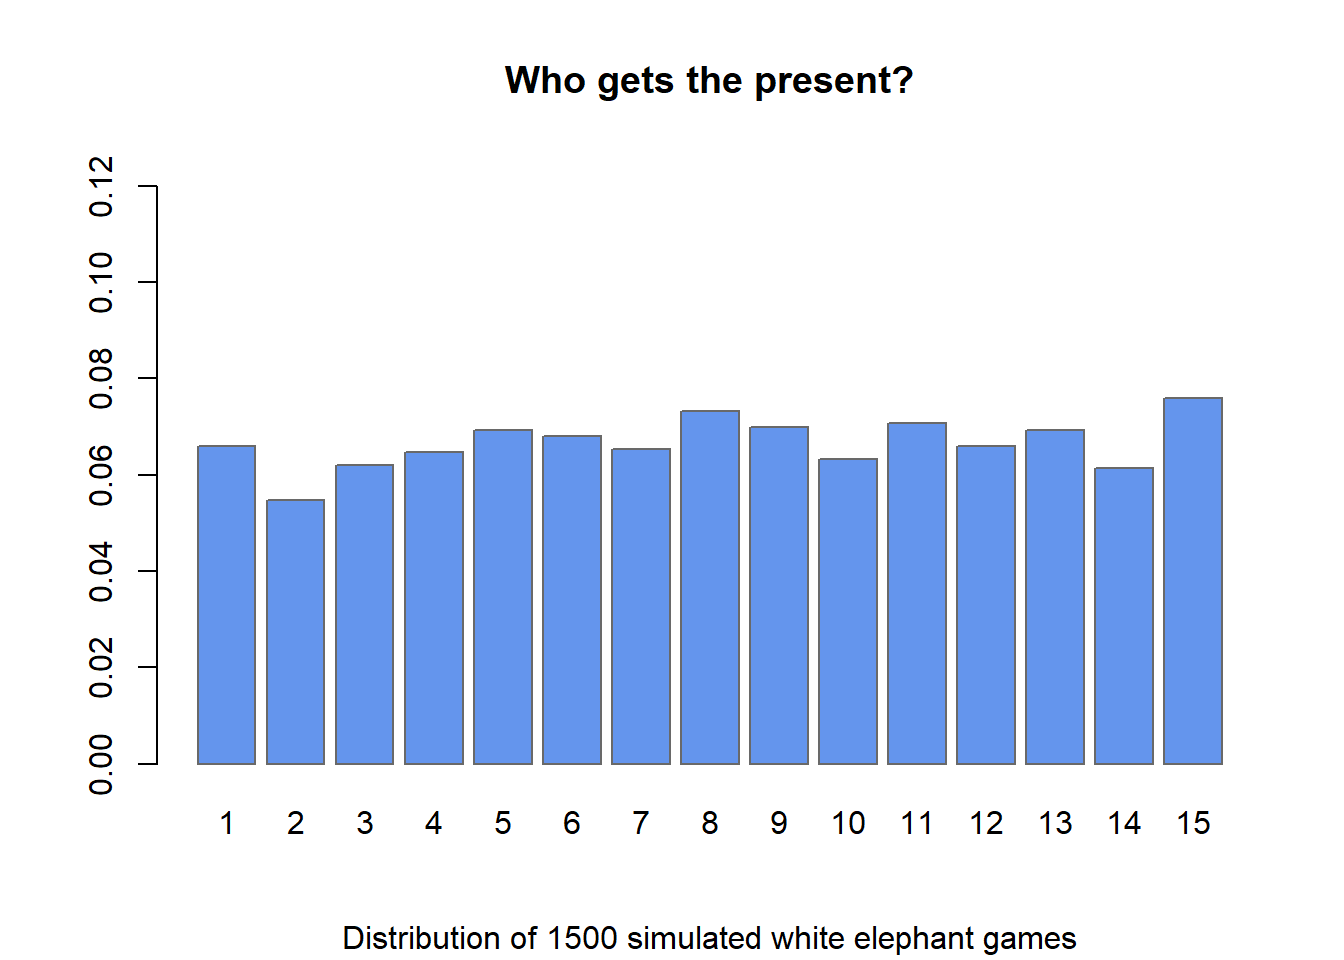
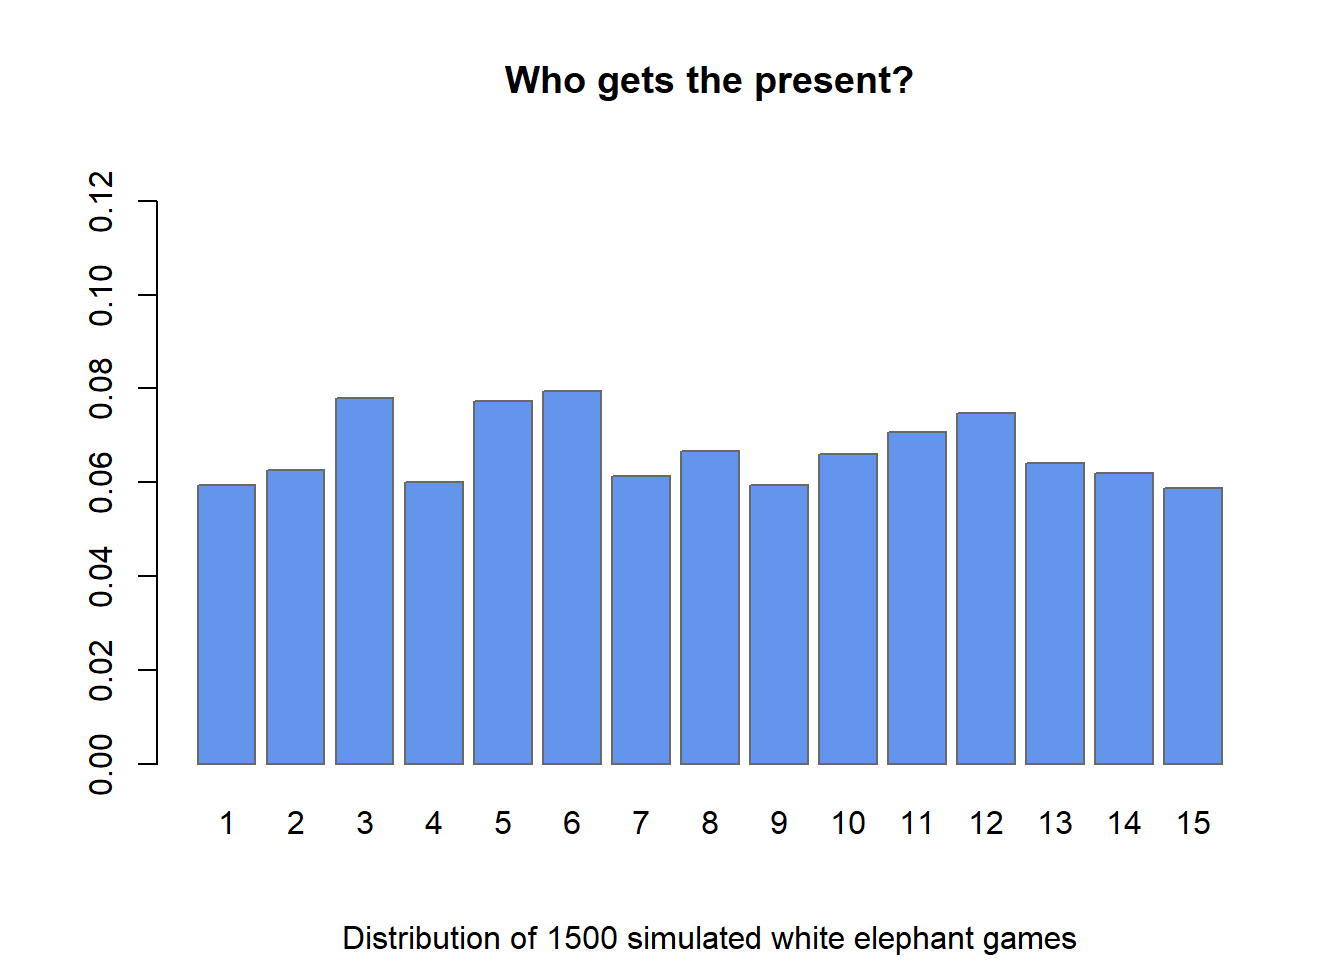
dubose open update

diff --git a/docs/projects/partyGames.html b/docs/projects/partyGames.html
@@ -208,12 +208,12 @@ pre > code.sourceCode > span > a:first-child::before { text-decoration: underlin
 <pre><code>$winner
 winner
   1   2   3   4   5   6   7   8   9  10  11  12  13  14  15 
- 99  82  93  97 104 102  98 110 105  95 106  99 104  92 114 
+ 89  94 117  90 116 119  92 100  89  99 106 112  96  93  88 
 
 $moves
 moves
   -6   -5   -4   -3   -2   -1    1    2    3    4    5    6 
-1855 1845 1826 1918 1873 1924 1888 1913 1853 1866 1816 1923 
+1903 1937 1853 1907 1860 1852 1891 1823 1921 1853 1792 1908 
 
 attr(,"class")
 [1] "elphSum" "list"   </code></pre>
@@ -242,44 +242,44 @@ attr(,"class")
 <span id="cb6-3"><a href="#cb6-3" aria-hidden="true" tabindex="-1"></a>monopolyGame</span></code><button title="Copy to Clipboard" class="code-copy-button"><i class="bi"></i></button></pre></div>
 <div class="cell-output cell-output-stdout">
 <pre><code>[[1]]
- [1] 11 18 18 10 11  9 19 15  8 15 18 14 16 15 14 17 14 13 22 14 15 17 14 16 11
-[26] 11 14 17 14 15  8 19 16 13 11 21 19  9 15 10
+ [1]  9 16 10 18 10 21 12 14 15 14 21 10 22 11 19 16 13 10 15 16 11 16 14 21 17
+[26] 17 10 13 13 18 10 18 13 13 14 12 13 16 21 13
 
 [[2]]
- [1] 13 15 12 11 11 23 14  9 15 14 28 18 12  9 18 15 14 13 15 15 16 21 17 10 14
-[26] 17 15 19 15 15 13 11 18  9 21 13 12 17 10 15
+ [1] 13 22 17 18 14 12 13 21 15 15 21 12 20 15 11 11 13 17  9 20 16 16 19 16 14
+[26] 10 13 17 21 18  7 14 15 16  8 20 11 17 12 12
 
 [[3]]
- [1] 13 13 15 20 15  8 14 23 10 12 19 12 16 12 23  9 13 16 16 22 18 21 16 13 14
-[26] 16  7 20 12 18 17 13 13 14 11 18 20 10 16 17
+ [1] 16 10 11 10 19 13 21 12 12  9 18 15 17 14 15 10 17 13 20 17 14 13 19 14 18
+[26] 20 15 11 14 13 13  7 17 19 14 20 18 15  8 13
 
 [[4]]
- [1] 16 12 18  5 11 19 14 14 19 16 24 11 10 15 13 14 16 18 21 15 20 13 15 15 12
-[26] 15 15 11 13 14 12 17 15 11 23 13 11 11 17 17
+ [1] 16 11 17 15 12 18 13 16 15 11 21 14 10 10 18 14 13 15 17 16 12 15  8 19  9
+[26] 20 16 15 13 11  9 19 17  9 18 17 11 15 15 14
 
 [[5]]
- [1] 16 13 14 11 14 11 12 16 20 22 15 14 12 14 15 18 14 16 20 14  7 18 11 21 14
-[26] 18 14 11 15 14 14 13 16 13 14 15 12 14 14 11
+ [1] 14 11 11 13 18 13 15 21 12  8 26 12 17 15 12 15 13 12 20 15 15 10 14 20 11
+[26] 15 16  9 21 16 11 10 18 18 13 19 15 11 27  6
 
 [[6]]
- [1] 16 16 12 11 17 15  9 17 16 10 23 20 16  8 17 12 18 13 17 13  9 20 13 18  9
-[26] 12 24 13 13 17 16 13  9 18 16 20 16  9 10 11
+ [1] 19 14 12 16 12 11 18 15 12 21 18 14  9 19 10 15 22 16 17 21 14 14 13 12 11
+[26] 16 13 17 19  7 13 18 13 17  9 17 14 15 11 12
 
 [[7]]
- [1] 14  6 15 14 14  8 14 15 15 12 22 15 18 12 14 15 16 10 17 16 15 18 15 12 14
-[26] 21 14 10 25 12 15 15  9 10 15 16 13 21 21 15
+ [1]  9 15 12 18 10 15 10 16 15 11 29 12 12 16 16 17 15 16 10 16 19 17 16 13 11
+[26] 18 17 11 23 12 17 14 11 13 17 20 15 12 17 16
 
 [[8]]
- [1] 12 15 15 17 15 15 15 15 14 15 17 16 16 17 16 11 15 16 15 19 10 20 15  8 21
-[26] 15 11 12 15 20 13 16 14 15  9 14 14 14 20 13
+ [1] 13 13 17 14 19  8 19  9  9 18 25 15 14 17 12 17 17 16 17 15 19  7 14 14 22
+[26] 19 14 11 13 13 11 15 21 10 14 12 16 14 10 15
 
 [[9]]
- [1] 14 13 15 11 15 18  9 17  7 12 20 15 16 11 10 17 23  9  8 14 13 15 18 15 12
-[26] 21 13 13 14 10 12 14 19 19 13 17 12 13 18 12
+ [1] 17 17 14 13  8 15 21 14 14 13 23 16 10 12 21 12 16 18 13 13 15 15 12 18 19
+[26] 10 15 11 14 16 18 15 13 18 15 17 10 15 13 21
 
 [[10]]
- [1]  8 13 14 11 17 13 11 18 15 17 17 16 15 16 21 14 12 18 12 18 15 19 12 17 10
-[26] 19  9 21  9 17 21 12 15 15 15 15 18 16 13 12
+ [1] 16 13 10 14  9 17 15 17 16 25 22 16 16 12 11 20 12 20  8 16 18 15 21 13 12
+[26] 12 16 11 15 20 13  9 14 21 11 17 14 12 13 14
 
 attr(,"class")
 [1] "monopoly" "list"    </code></pre>
@@ -287,9 +287,9 @@ attr(,"class")
 <div class="sourceCode cell-code" id="cb8"><pre class="sourceCode r code-with-copy"><code class="sourceCode r"><span id="cb8-1"><a href="#cb8-1" aria-hidden="true" tabindex="-1"></a><span class="fu">summary.monopoly</span>(monopolyGame)</span></code><button title="Copy to Clipboard" class="code-copy-button"><i class="bi"></i></button></pre></div>
 <div class="cell-output cell-output-stdout">
 <pre><code>  1   2   3   4   5   6   7   8   9  10  11  12  13  14  15  16  17  18  19  20 
-133 134 148 121 140 139 131 159 139 145 203 151 147 129 161 142 155 142 163 160 
+142 142 131 149 131 143 157 155 135 145 224 136 147 141 145 147 151 153 146 165 
  21  22  23  24  25  26  27  28  29  30  31  32  33  34  35  36  37  38  39  40 
-138 182 146 145 131 165 136 147 145 152 141 143 144 137 148 162 147 134 154 133 
+153 138 150 160 144 157 145 126 166 144 122 139 152 154 133 171 137 142 147 136 
 attr(,"class")
 [1] "monoSum" "numeric"</code></pre>
 </div>
@@ -313,9 +313,9 @@ attr(,"class")
 <span id="cb11-7"><a href="#cb11-7" aria-hidden="true" tabindex="-1"></a><span class="fu">summary.monopoly</span>(monoParallel)</span></code><button title="Copy to Clipboard" class="code-copy-button"><i class="bi"></i></button></pre></div>
 <div class="cell-output cell-output-stdout">
 <pre><code>  1   2   3   4   5   6   7   8   9  10  11  12  13  14  15  16  17  18  19  20 
-264 263 301 254 267 282 276 274 312 285 435 285 276 302 296 235 296 334 326 333 
+285 275 268 281 285 272 287 300 296 284 445 258 277 279 281 274 288 335 291 302 
  21  22  23  24  25  26  27  28  29  30  31  32  33  34  35  36  37  38  39  40 
-288 305 308 272 270 294 306 299 279 293 279 290 293 266 311 300 304 337 248 233 
+308 323 306 293 301 323 276 283 274 282 288 247 294 338 297 338 269 283 240 260 
 attr(,"class")
 [1] "monoSum" "numeric"</code></pre>
 </div>

diff --git a/docs/tournament-announcements/dubose-open2025.html b/docs/tournament-announcements/dubose-open2025.html
@@ -146,7 +146,7 @@ ul.task-list li input[type="checkbox"] {
 <p>The DuBose Open has been hosted in Smithfield, UT since Dec.&nbsp;2020. <strong>This year the tournament will be held in Millcreek, Utah.</strong></p>
 <p>Registration for the tournament is open until Jan.&nbsp;3, 2025.</p>
 <p><strong>The tournament will begin Jan.&nbsp;4, 2025 at 5 pm.</strong></p>
-<p><a href="https://forms.gle/UyZ2MeYxfYnQi2pc9" class="btn btn-outline-primary" role="button" data-toggle="tooltip" title="Here's a tooltip">Register</a></p>
+<p><a href="https://forms.gle/UyZ2MeYxfYnQi2pc9" class="btn btn-outline-primary" role="button" data-toggle="tooltip" title="Register for the tournament">Register</a></p>
 <section id="rules" class="level1">
 <h1>Rules</h1>
 <p>The following rules will be implemented in the tournament. If you would like to contest a rule, please <a href="mailto:kline.dubose@hotmail.com">contact me</a>.</p>
